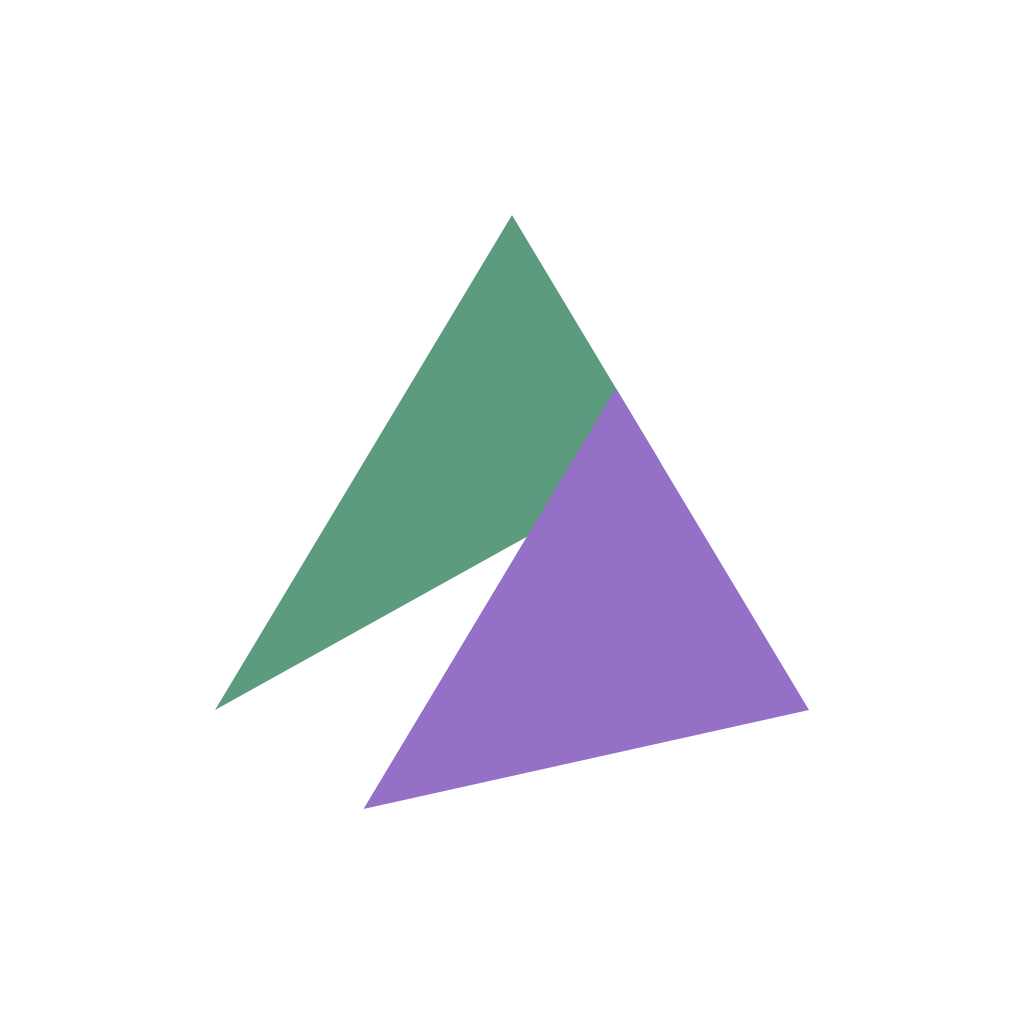
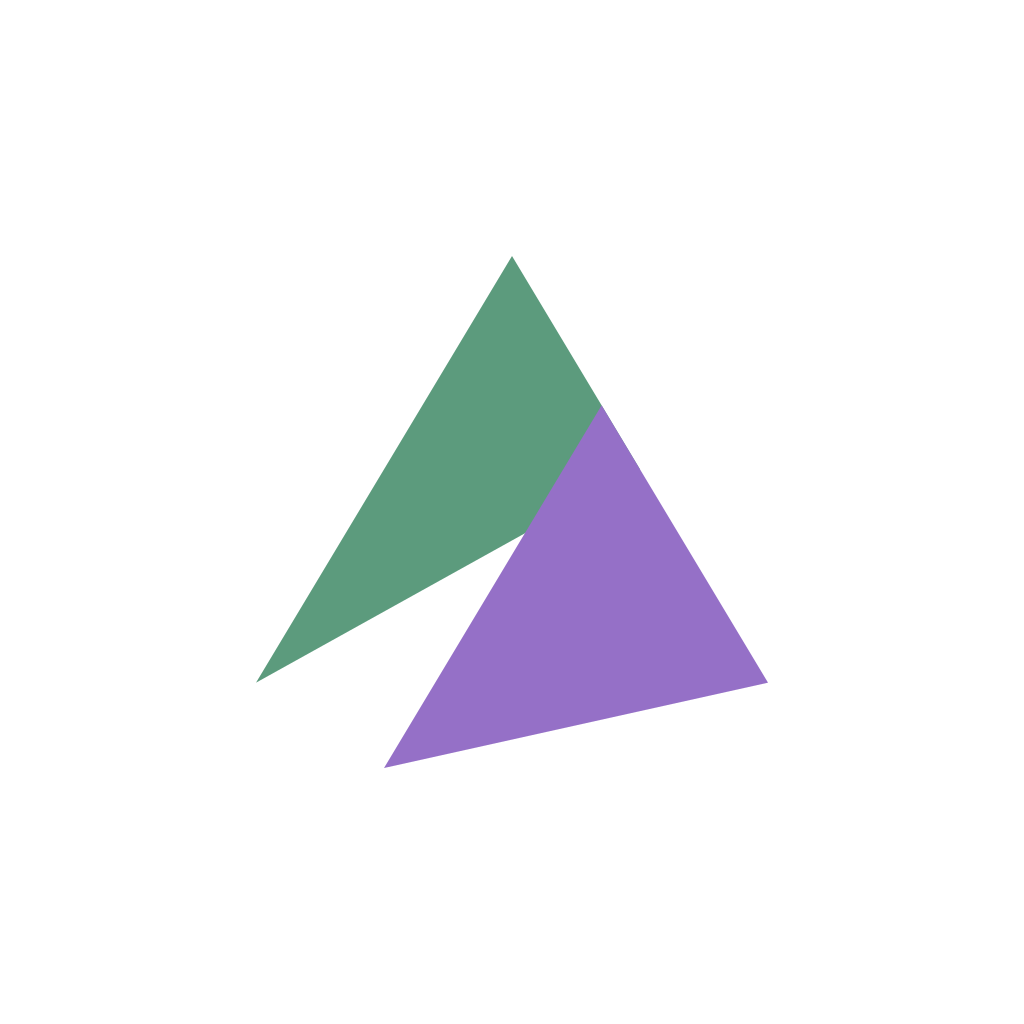
fix(pwa): calibrar escala del icono de la app al 50%

diff --git a/scripts/generate-icons.js b/scripts/generate-icons.js
@@ -58,28 +58,27 @@ ${bgRect}  <g transform="translate(${offsetX.toFixed(2)}, ${offsetY.toFixed(2)})
 
 async function generate() {
   // Ratios:
-  // - Maskable icon (app icon): ratio = 0.58 (72.6% of safe zone, prominent and balanced with clean white padding)
-  // - Any icon (splash screen): ratio = 0.65 (prominent, high-density vector detail)
+  // - All PWA icons (maskable, any, apple-touch-icon): ratio = 0.50 (50% scale, optimal safe-zone padding)
 
   // 1. Generate SVGs
-  // public/icon-192.svg and icon-512.svg (strictly NO <rect> to satisfy Invariant 11.9)
-  const svg192 = getSvgContent({ size: 192, bg: false, ratio: 0.65 });
+  // public/icon-192.svg, icon-512.svg, icon-1024.svg (strictly NO <rect> to satisfy Invariant 11.9)
+  const svg192 = getSvgContent({ size: 192, bg: false, ratio: 0.50 });
   fs.writeFileSync('public/icon-192.svg', svg192);
 
-  const svg512 = getSvgContent({ size: 512, bg: false, ratio: 0.65 });
+  const svg512 = getSvgContent({ size: 512, bg: false, ratio: 0.50 });
   fs.writeFileSync('public/icon-512.svg', svg512);
 
-  const svg1024 = getSvgContent({ size: 1024, bg: false, ratio: 0.65 });
+  const svg1024 = getSvgContent({ size: 1024, bg: false, ratio: 0.50 });
   fs.writeFileSync('public/icon-1024.svg', svg1024);
 
   // Maskable SVGs (solid #ffffff background)
-  const svgMask192 = getSvgContent({ size: 192, bg: true, ratio: 0.58 });
+  const svgMask192 = getSvgContent({ size: 192, bg: true, ratio: 0.50 });
   fs.writeFileSync('public/icon-maskable-192.svg', svgMask192);
 
-  const svgMask512 = getSvgContent({ size: 512, bg: true, ratio: 0.58 });
+  const svgMask512 = getSvgContent({ size: 512, bg: true, ratio: 0.50 });
   fs.writeFileSync('public/icon-maskable-512.svg', svgMask512);
 
-  const svgMask1024 = getSvgContent({ size: 1024, bg: true, ratio: 0.58 });
+  const svgMask1024 = getSvgContent({ size: 1024, bg: true, ratio: 0.50 });
   fs.writeFileSync('public/icon-maskable-1024.svg', svgMask1024);
 
   // 2. Render PNGs with 300 DPI supersampling for razor-sharp rendering on high-DPI screens
@@ -120,7 +119,7 @@ async function generate() {
   console.log('Generated public/icon-maskable-1024.png');
 
   // 3. apple-touch-icon.png (180x180 with solid white background for iOS)
-  const svgApple = getSvgContent({ size: 180, bg: true, ratio: 0.58 });
+  const svgApple = getSvgContent({ size: 180, bg: true, ratio: 0.50 });
   await sharp(Buffer.from(svgApple), { density: 300 })
     .resize(180, 180, { kernel: sharp.kernel.lanczos3 })
     .png({ compressionLevel: 9 })

diff --git a/public/sw.js b/public/sw.js
@@ -1,4 +1,4 @@
-const CACHE_NAME = 'atlas-cache-v10';
+const CACHE_NAME = 'atlas-cache-v11';
 
 // Recursos estáticos iniciales a cachear durante instalación.
 // Solo archivos PNG que existen en /public y son esenciales para la PWA.
